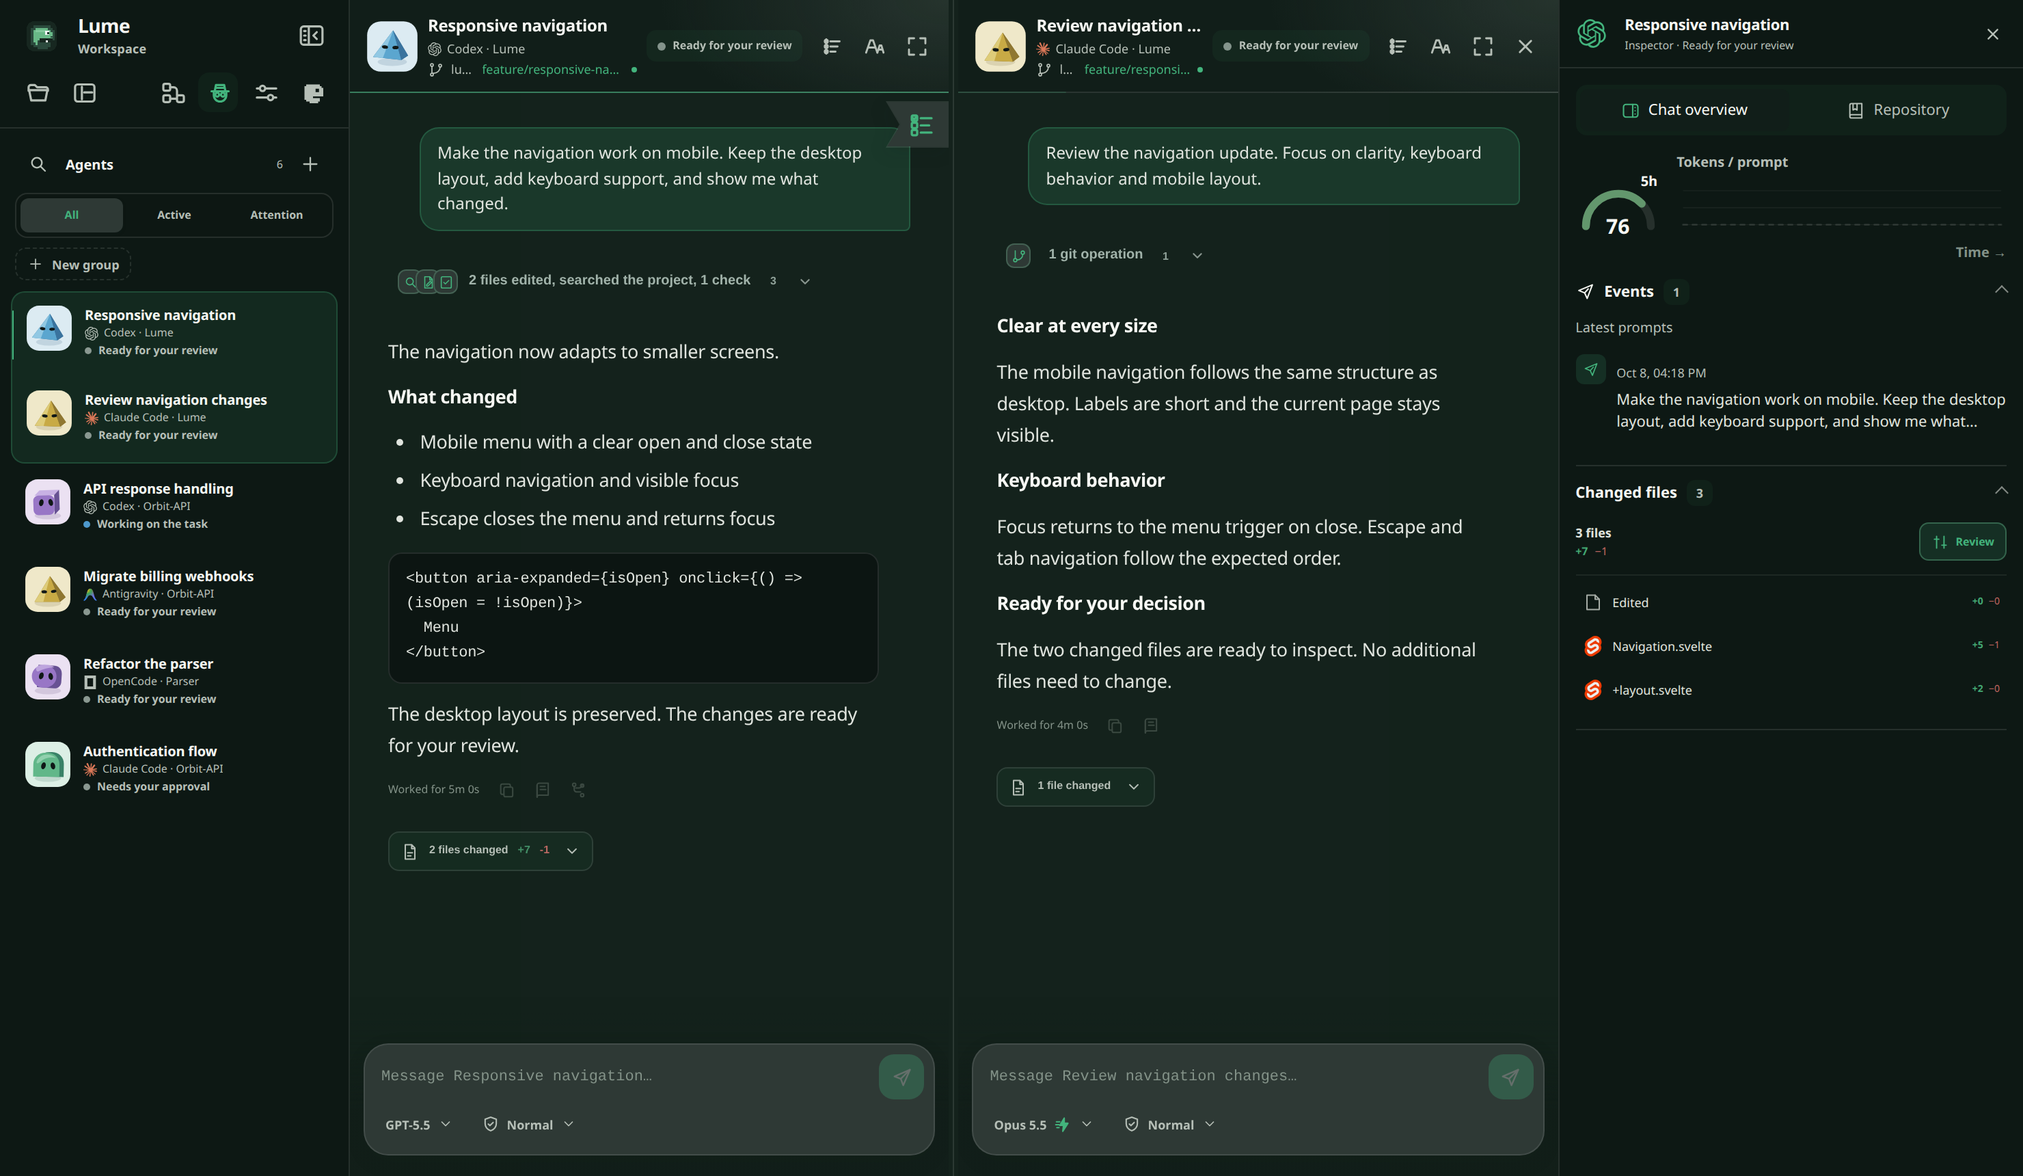
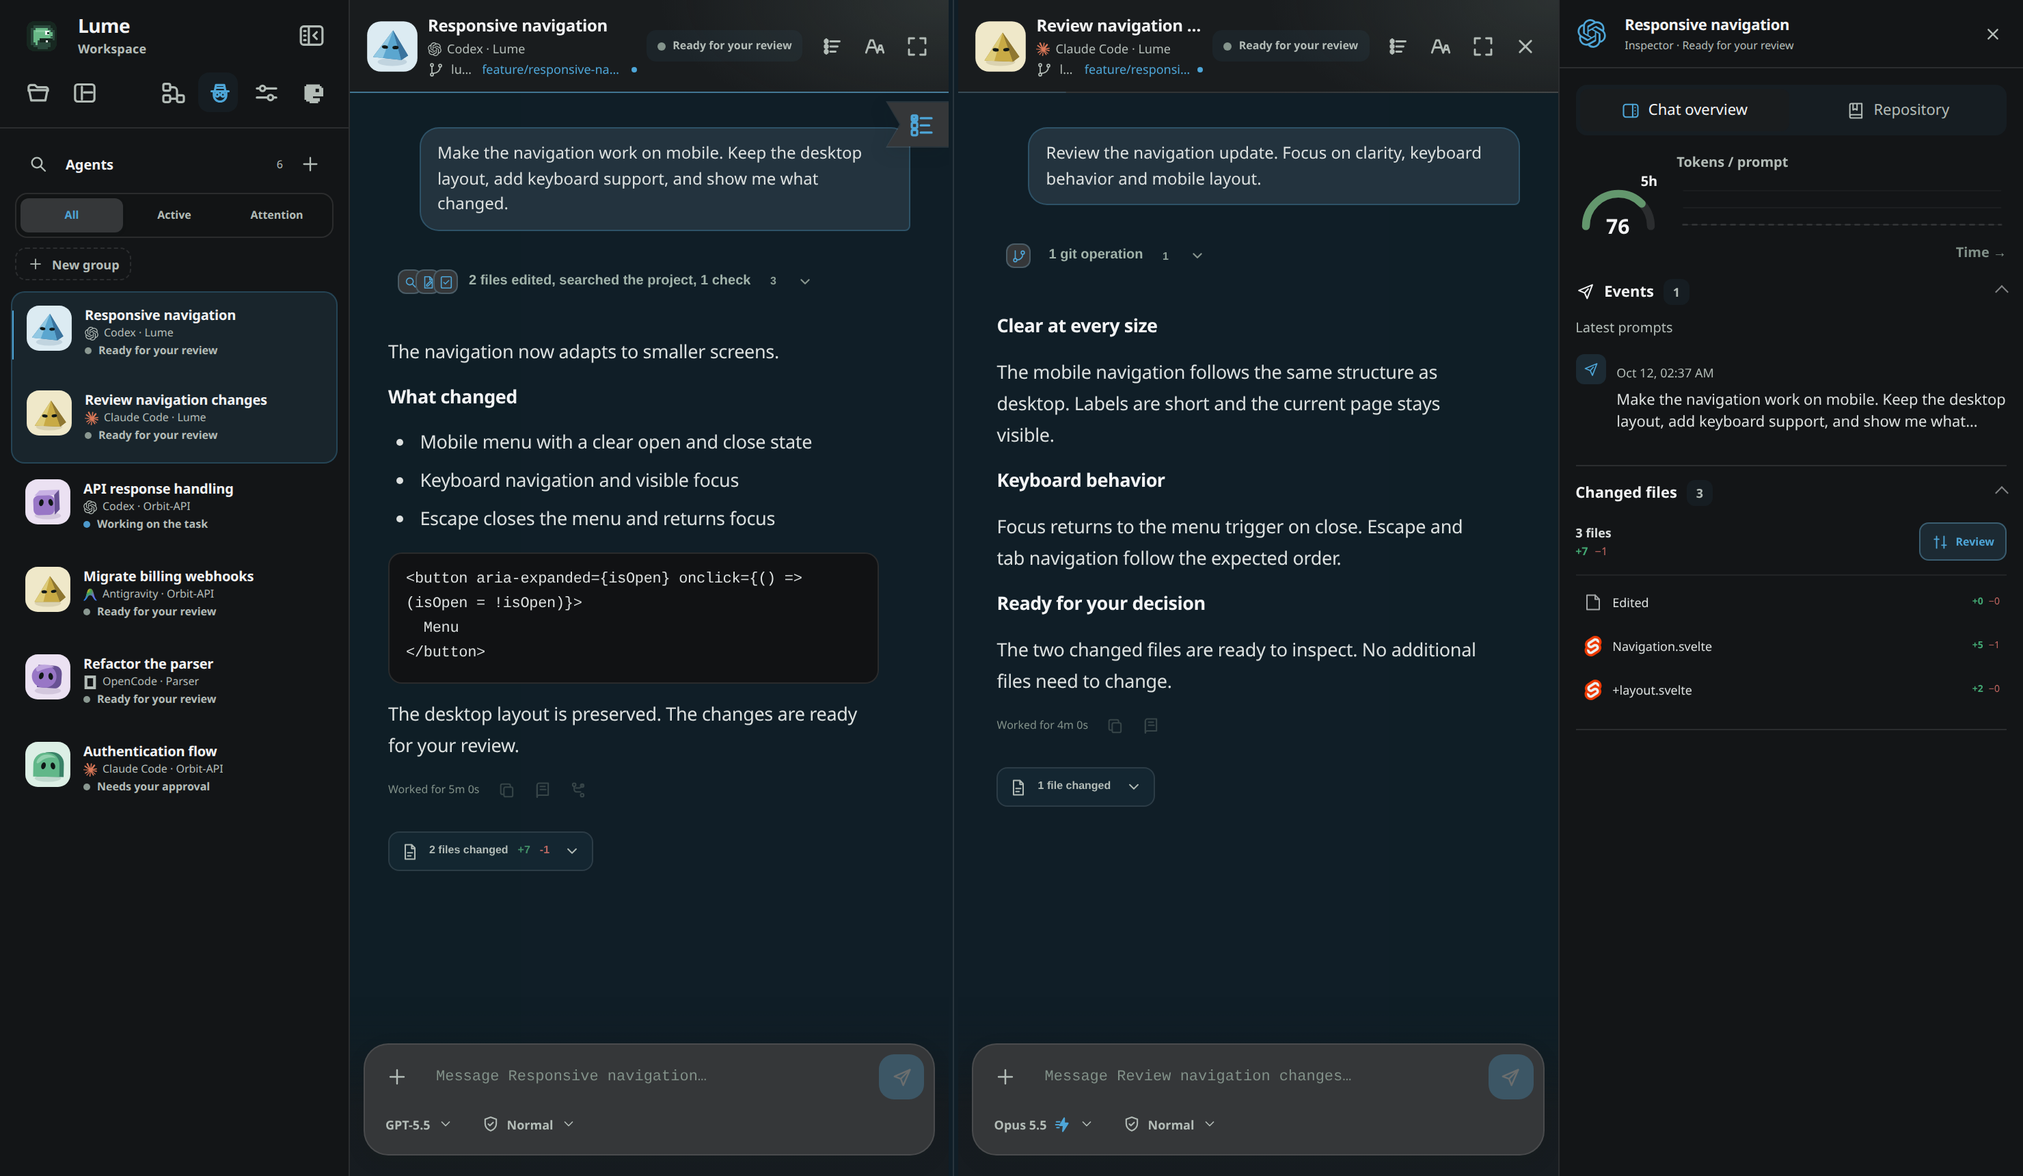
docs(readme): a technical README: the orb and docking GIFs, Workspace and workflow captures on the Graphite base with the Ocean accent, agent sources, remote and privacy

diff --git a/README.md b/README.md
@@ -5,71 +5,120 @@
 <h1 align="center">Lume</h1>
 
 <p align="center">
-  A local-first command center for every AI coding agent on your computer.
+  Desktop app that monitors and controls AI coding agent sessions from one place.<br />
+  Local-first: no account, no hosted service, no telemetry.
 </p>
 
 <p align="center">
-  <a href="https://github.com/Lume-agents/Lume/releases/latest"><strong>Download the latest release</strong></a>
+  <a href="https://github.com/Lume-agents/Lume/releases/latest"><strong>Download</strong></a>
+  · <a href="https://lumeagents.dev">lumeagents.dev</a>
   · Windows · Linux · macOS (preview) · Android
 </p>
 
-Lume watches the agent sessions you already run (Claude Code, Codex, Antigravity, OpenCode and more), shows which ones are working, waiting or need you, and lets you continue them from one place. It needs no account and has no Lume-hosted service: desktop data stays on the machine, and prompts follow the connection of the agent you choose.
+<p align="center">
+  <img src="docs/media/lume-orb-panel.gif" width="840" alt="The Lume orb expanding into the live session panel" />
+</p>
+
+Lume attaches to the agents you already run (Claude Code, Codex, Antigravity, OpenCode, Oh My Pi, and the web chats) through the channels each one exposes: hooks, process and session-file discovery, the Codex App Server, ACP, RPC. It normalizes what it finds into one session model with five states (`running`, `permission_required`, `waiting_for_input`, `completed`, `failed`) and puts that model behind several surfaces: the Orb, the Workspace, floating terminals, a workflow board, an Android app and, as a prototype, other computers.
+
+It only offers an action when the source can actually perform it. A session that cannot answer a permission request shows the request and a link to its origin, never a button that pretends to.
+
+```
+ agents ─┬─ hooks (JSONL, 127.0.0.1:43119) ───────────┐
+         ├─ process, rollout and transcript discovery ┤
+         ├─ Codex App Server (43130 / 43131) ─────────┤
+         ├─ OpenCode ACP · omp RPC · Claude CLI ──────┼─▶ normalized sessions ─▶ Orb · Workspace
+         └─ Chromium Companion (43120) ───────────────┘                         Terminals · Workflow
+                                                                                Mobile · Remote
+```
+
+## Orb
+
+A capsule that starts collapsed and docks to any monitor edge, reshaping itself to the edge. Its color and counter follow the normalized states; expanded, it lists every session with agent, project, origin and state.
+
+- Approve or deny supported permission requests, answer questions, continue a chat and read final responses without opening the Workspace.
+- Per-monitor placement, a fullscreen guard (hidden over games and video unless you opt in) and the same session groups you create in the Workspace.
+- Four notification tones (completed, failed, permission, usage) and desktop notifications, each switchable.
+- Usage monitoring for Codex and Claude Code: a gauge per limit window, polled more often as a limit gets tight. A banner appears at 20% remaining, stays pinned under 10%, and a distinct tone plays when a limit is reached.
+- Global command palette (`Ctrl+Shift+Space`) to jump between screens, sessions and actions.
+
+## Floating terminals
+
+Any monitored session can become its own window with the conversation, live activity, changed files, TO DO and GOAL progress, rate limits, image attachments and a prompt box. Windows move and resize freely, and dock horizontally or vertically into groups that move together while each stays an independent chat. The Whiteboard saves named layouts and restores them onto the matching open sessions.
+
+<p align="center">
+  <img src="docs/media/lume-terminal-docking.gif" width="840" alt="Two Lume terminals docking side by side" />
+</p>
+
+## Workspace
+
+Up to three chats side by side plus an inspector, over the same sessions as the Orb.
 
 <p align="center">
   <img src="docs/screenshots/lume-workspace.png" width="900" alt="The Lume Workspace: agents in the sidebar, two chats side by side and the session inspector" />
 </p>
-<p align="center"><sub>Screenshots use illustrative sessions generated by <code>scripts/site-capture</code>.</sub></p>
+<p align="center"><sub>Illustrative sessions generated by <code>scripts/site-capture</code>, shown here with the Graphite base and the Ocean accent.</sub></p>
 
-## Three ways to use it
+**Chat**
+- Markdown, images, commands, changed files with diffs, TO DO and GOAL progress, plan documents and subagent timelines per session.
+- Prompt queue and steer where the agent supports them; context meter and compaction; model, effort, Fast mode and permission mode per session, read from the agent itself.
+- Slash commands come from the agent. Lume adds `/model`, `/clear`, `/mcp` (servers and their tools) and a few window commands. `Ctrl/Cmd+F` searches the chat.
+- Each session keeps its own permission profile (access mode, approval policy, valid actions). A chat in plan mode and one with full access can sit side by side.
 
-### Orb
+**Inspector**
+- Token usage per prompt, recent prompts, events, rate limits and the MCP servers the agent has loaded, with connection status.
+- Repository: working tree changes, commits, open pull requests and issues, HEAD checks and the last Actions runs. Git is read locally; GitHub reuses your own `gh` login and no token reaches the webview or an agent.
+- A pull request or issue URL mentioned in a chat opens a preview with status, checks, labels and description. From the Changes tab you can commit the files you tick (staging only those, running your hooks). Lume never pushes.
+- Session environments: the dev servers and databases each session started, with ports, uptime and a stop action tied to session, PID and start time. Association is by explicit identity (`CODEX_THREAD_ID`, a single confirmed owner of the process tree), never by path or timing.
 
-A small capsule at the top of the screen. Its color, counter, sound and notifications reflect what needs attention. Expand it to see every session, approve supported actions, continue a chat, read final responses, or open floating terminals. Sessions show the same groups you create in the Workspace.
+**Review center**
+- Per-file review with syntax-colored diffs, word-level highlights, folded context and a Git view of the working tree.
+- Line comments can be sent back to the agent as a prompt; each result carries an approved / changes-requested decision.
 
-<p align="center">
-  <img src="docs/screenshots/lume-orb.png" width="320" alt="The expanded Lume Orb listing agent sessions" />
-</p>
+**External CLIs stay untouched.** A Codex or Claude Code CLI you started yourself is monitored read-only until you explicitly transfer it to Lume, which resumes the same conversation.
 
-### Workspace
+## Workflow board
 
-A full window for working with several agents at once.
-
-- **Chats side by side:** up to three panes, rearranged by dragging a session from the sidebar or a pane header. Each chat keeps Markdown, images, commands, changed files, TO DO and GOAL progress, rate limits and prompt queueing.
-- **Sidebar groups:** create groups, drag agents into them, reorder and collapse them. Groups are stored locally and shown in the Orb too.
-- **Inspector:** token usage, recent prompts, changed files, subagents, the agent's MCP servers with connection status, and the repository (changes, commits, pull requests, issues, Actions).
-- **Review center:** per-file review with syntax-colored diffs, line comments you can send back to the agent, and a Git view of the working tree.
-- **Slash commands read from the agent itself.** Lume adds `/model`, `/clear` (starts a new conversation in the pane), `/mcp` (servers and their tools) and a few window commands.
-- **Find in chat:** `Ctrl+F` / `Cmd+F`.
-- **GitHub without leaving the chat:** a pull request or issue URL mentioned in a chat opens a preview with status, checks, labels and description. From the Changes tab you can commit the files you tick; Lume never pushes.
-- **Session environments:** the dev servers and databases each session started, with ports and a stop button.
-- **External CLIs stay untouched.** A Codex or Claude Code CLI you started yourself is monitored read-only until you explicitly transfer it to Lume.
-
-### Workflow board
-
-A canvas for coordinating agents. Drop sessions onto it, give each a role (Planner, Implementer, Reviewer, Tester, Researcher or custom), and draw arrows for the order. Each arrow controls what is handed over (context policy and the files, checks, plan or diffs to include) and whether to ask for your approval first. Cards show what each agent is doing as it works, and arrows light up as results travel.
+A canvas that chains sessions into a run. Each card is a session with a role (Planner, Implementer, Reviewer, Tester, Researcher or custom, each with an instruction, expected input, produced output and end condition). Each arrow sets what is handed over and whether to ask you first.
 
 <p align="center">
   <img src="docs/screenshots/lume-workflow-board.png" width="900" alt="The workflow board with three agents connected in sequence" />
 </p>
 
-Lume builds a sanitized context package from the source result instead of copying the whole conversation or private reasoning. Runs are stored locally, recover after a restart, and are limited by guardrails on transitions, retries, step duration, sensitive handoffs and low rate limits. See [docs/WORKFLOW_BOARD.md](docs/WORKFLOW_BOARD.md).
+- The runtime executes one linear chain: one arrow in and out per card, no loops, one first step, one route. A connection that breaks a rule is refused on the spot, with the reason.
+- The handoff is a sanitized context package built from the source result (response, files, checks, plan or diffs, per the arrow's policy), not a copy of the conversation or of private reasoning.
+- Runs are stored locally, survive a restart and resume against the original agent. Guardrails cover transitions, retries, step duration, sensitive handoffs and low rate limits. The last 200 runs are kept, with only the sanitized final response of each step.
 
-## Supported agents
+Details in [docs/WORKFLOW_BOARD.md](docs/WORKFLOW_BOARD.md).
 
-| Agent | What Lume does |
-| --- | --- |
-| Claude Code | Monitors CLI sessions; sessions opened by Lume can run without a terminal, with prompts, permissions, model and effort, Fast mode, task list and MCP status |
-| Codex | Monitors the CLI and VS Code; sessions controlled by Lume use the local App Server with prompts, queue, steer, approvals, model and effort |
-| Antigravity CLI | Hook activity and status, model and permission selection, resume of the latest conversation per workspace |
-| Oh My Pi | Monitors CLI sessions; Lume-controlled sessions run through omp's RPC mode with prompts, steer/queue, interrupt, model/thinking, approval decisions (allow once or deny), questions and compaction. External sessions can be taken over after the terminal omp is closed. No plan mode. |
-| DeepSeek Harness, Gemini CLI (legacy) | Process monitoring; Gemini is never controlled |
-| ChatGPT, Claude, DeepSeek and Gemini on the web | Status, final response and prompts through the Chromium Companion |
+## Agent sources
 
-Lume shows only actions the current session supports and never simulates an approval an agent cannot perform. Details, including the Antigravity hook and its automatic tool approval, are in [docs/AGENT_SOURCES.md](docs/AGENT_SOURCES.md).
+| Source | Detection | What Lume can do |
+| --- | --- | --- |
+| Claude Code | Processes, hooks, native session registry | CLI sessions: monitoring. Sessions opened by Lume run without a terminal: prompts, permissions, model and effort, Fast mode, task list, MCP status |
+| Codex (CLI and VS Code) | Processes, rollouts, hooks | External: monitoring. Controlled by Lume through the local App Server: prompts, queue, steer, approvals, model and effort |
+| Antigravity CLI | `agy` processes, CLI-only hooks | Activity and status, model and permission selection, resume of the latest conversation per workspace |
+| OpenCode | ACP server | Prompts, cancellation and slash commands |
+| Oh My Pi (`omp`) | Processes, session files, optional extension | Controlled sessions over omp's RPC mode: prompts, steer and queue, interrupt, model and thinking, allow once or deny, questions, compaction. External sessions can be taken over after the terminal omp is closed |
+| DeepSeek Harness, Gemini CLI (legacy) | Processes | Monitoring only; Gemini is never controlled |
+| ChatGPT, Claude, DeepSeek, Gemini (web) | Chromium Companion | Status, final response and prompts while the page waits for input |
+
+Transcripts stay where the agent wrote them; Lume reads them into memory while monitoring. Antigravity's hook auto-approves every tool call while installed, and Lume warns before enabling it. See [docs/AGENT_SOURCES.md](docs/AGENT_SOURCES.md).
+
+## Remote and mobile
+
+**Android.** The `Lume-Mobile.apk` in each release (also a PWA) pairs with the desktop over the local network. Enable **Settings → Mobile access** and scan the QR code. It is off by default, accepts only paired devices and encrypts payloads with keys derived from the one-time QR. Workflows are monitor-only on mobile.
+
+**Other computers (prototype).** `lume node` runs a headless Node on a computer; another Lume pairs with it and reads its agents.
+- Same network: mDNS discovery, HTTPS with a pinned certificate bound to an Ed25519 identity, and pairing by comparing a six-digit code on both screens.
+- Other networks: the Node connects out to a Lume Relay ([source](https://github.com/Lume-agents/lume-relay), AGPL-3.0). Traffic is an Ed25519-authenticated X25519 session with ChaCha20-Poly1305, so the Relay carries ciphertext it cannot read.
+- Paired devices are read-only: they see the session list and, only if the owner turns that switch on, the text of the conversation. Controlling a remote agent is not implemented. There are no accounts, and this has not had an independent security review.
+
+See [docs/LUME_NODE.md](docs/LUME_NODE.md), [docs/LUME_REMOTE.md](docs/LUME_REMOTE.md) and the [threat model](docs/DISTRIBUTED_THREAT_MODEL.md).
 
 ## Install
 
-The [latest release](https://github.com/Lume-agents/Lume/releases/latest) provides a Windows installer (`.exe`), `.deb`, `.rpm`, a portable Linux AppImage, and the Android app (`Lume-Mobile.apk`).
+The [latest release](https://github.com/Lume-agents/Lume/releases/latest) provides a Windows installer (`.exe`, which also puts `lume` on the `PATH`), `.deb`, `.rpm`, a portable Linux AppImage, and the Android app. Updates are signed and checked from **Settings → About**.
 
 **macOS (preview).** Apple Silicon and macOS 15+. Until the build is signed ([#13](https://github.com/Lume-agents/Lume/issues/13)), install from the terminal, because Gatekeeper blocks the `.dmg`:
 
@@ -77,37 +126,36 @@ The [latest release](https://github.com/Lume-agents/Lume/releases/latest) provid
 curl -fsSL https://raw.githubusercontent.com/Lume-agents/Lume/main/scripts/install-macos.sh | sh
 ```
 
-Running it again updates to the latest release. Lume also checks for updates itself (**Settings → About**).
+Running it again updates to the latest release.
 
-**Connect your agents.** Open **Settings** and connect the integrations you use. After connecting Codex for the first time, run `/hooks` inside Codex and trust the **Lume** hook. The browser Companion is covered in [docs/AGENT_SOURCES.md](docs/AGENT_SOURCES.md), GitHub in [docs/GITHUB.md](docs/GITHUB.md) and Linux display notes in [docs/DEVELOPMENT.md](docs/DEVELOPMENT.md).
+**Connect your agents** in **Settings**. The first-run guide can install the agent CLIs and the GitHub CLI for you. After connecting Codex, run `/hooks` inside Codex and trust the **Lume** hook. The browser Companion is covered in [docs/AGENT_SOURCES.md](docs/AGENT_SOURCES.md), GitHub in [docs/GITHUB.md](docs/GITHUB.md), Linux display backends in [docs/DEVELOPMENT.md](docs/DEVELOPMENT.md).
 
-**Phone.** Enable **Settings → Mobile access** and scan the QR code. Access is off by default and uses a paired, encrypted connection over the local network.
+## Customization
 
-## Keyboard shortcuts
+- Appearance: five accent themes, neutral dark (Graphite, Black, Slate) and light bases, custom accent color and opacity, bundled or custom UI and code fonts. English and Brazilian Portuguese.
+- Per-project profiles: destination, monitor, orb position, permissions for new sessions, layout and preferred agents.
+- External detectors: a JSON manifest adds a detector for another agent without a restart ([example](docs/external-plugin.example.json)).
+- Shortcuts, all editable in **Settings → Keyboard shortcuts**:
 
-| Action | Shortcut |
+| Action | Default |
 | --- | --- |
 | Open Lume | `Ctrl+Alt+Shift+L` |
-| Open the command palette | `Ctrl+Shift+Space` |
-| Start a new session | `Ctrl+Alt+Shift+N` |
-| Open the Whiteboard | `Ctrl+Alt+Shift+B` |
+| Command palette | `Ctrl+Shift+Space` |
+| New session | `Ctrl+Alt+Shift+N` |
+| Whiteboard | `Ctrl+Alt+Shift+B` |
 
-All of them can be changed in **Settings → Keyboard shortcuts**.
+## Privacy and data
 
-## Privacy
+Everything stays on the machine. The hook, Companion and Codex bridge ports are bound to loopback; the mobile gateway and a Node listen on the network only after you enable them. SQLite holds preferences, layouts, project profiles, workflow definitions and recovery state, saved notes, and a sanitized activity history. Permission requests are stripped before any write: no full command, path, tool input or payload. Live messages are not copied into a transcript database, and private model reasoning is never available to Lume. See [docs/PRIVACY.md](docs/PRIVACY.md) and [docs/PRODUCT.md](docs/PRODUCT.md).
 
-Everything stays on the machine. Desktop integrations listen only on localhost. The mobile gateway opens port `43124` on the local network only after you enable it, accepts only paired devices, and encrypts payloads with keys from the one-time QR code. The public PWA contains static files only.
+## Development
 
-Live messages are not copied into a Lume transcript database. SQLite stores preferences, workflow definitions and recovery state, plans and notes, sanitized activity history and results you saved explicitly. Private model reasoning is never available to Lume. GitHub access reuses your own GitHub CLI login and no token reaches the webview or an agent. See [Product](docs/PRODUCT.md) and [Privacy](docs/PRIVACY.md).
-
-## Contributing
-
-Requirements are Node.js 22+, stable Rust and the Tauri system dependencies.
+Tauri 2 with a Rust backend (about 60 modules, 700+ unit tests), SvelteKit 5 frontend, SQLite through `rusqlite`, Capacitor for Android. CI runs on Windows, Linux and macOS.
 
 ```bash
 npm install
-npm run check
+npm run check        # type check and the frontend test suites
 npm run tauri dev
 ```
 
-[docs/DEVELOPMENT.md](docs/DEVELOPMENT.md) covers building installers, releases and external detectors, and [CONTRIBUTING.md](CONTRIBUTING.md) the contribution process. The marketing website lives in the private `Lume-agents/lume-website` repository; this repository holds the desktop app, mobile clients, Node and the shared agent integrations.
+Requirements: Node.js 22+, stable Rust and the Tauri system dependencies. [docs/DEVELOPMENT.md](docs/DEVELOPMENT.md) covers installers, releases and detectors; [CONTRIBUTING.md](CONTRIBUTING.md) the process. The marketing site is a separate private repository.
